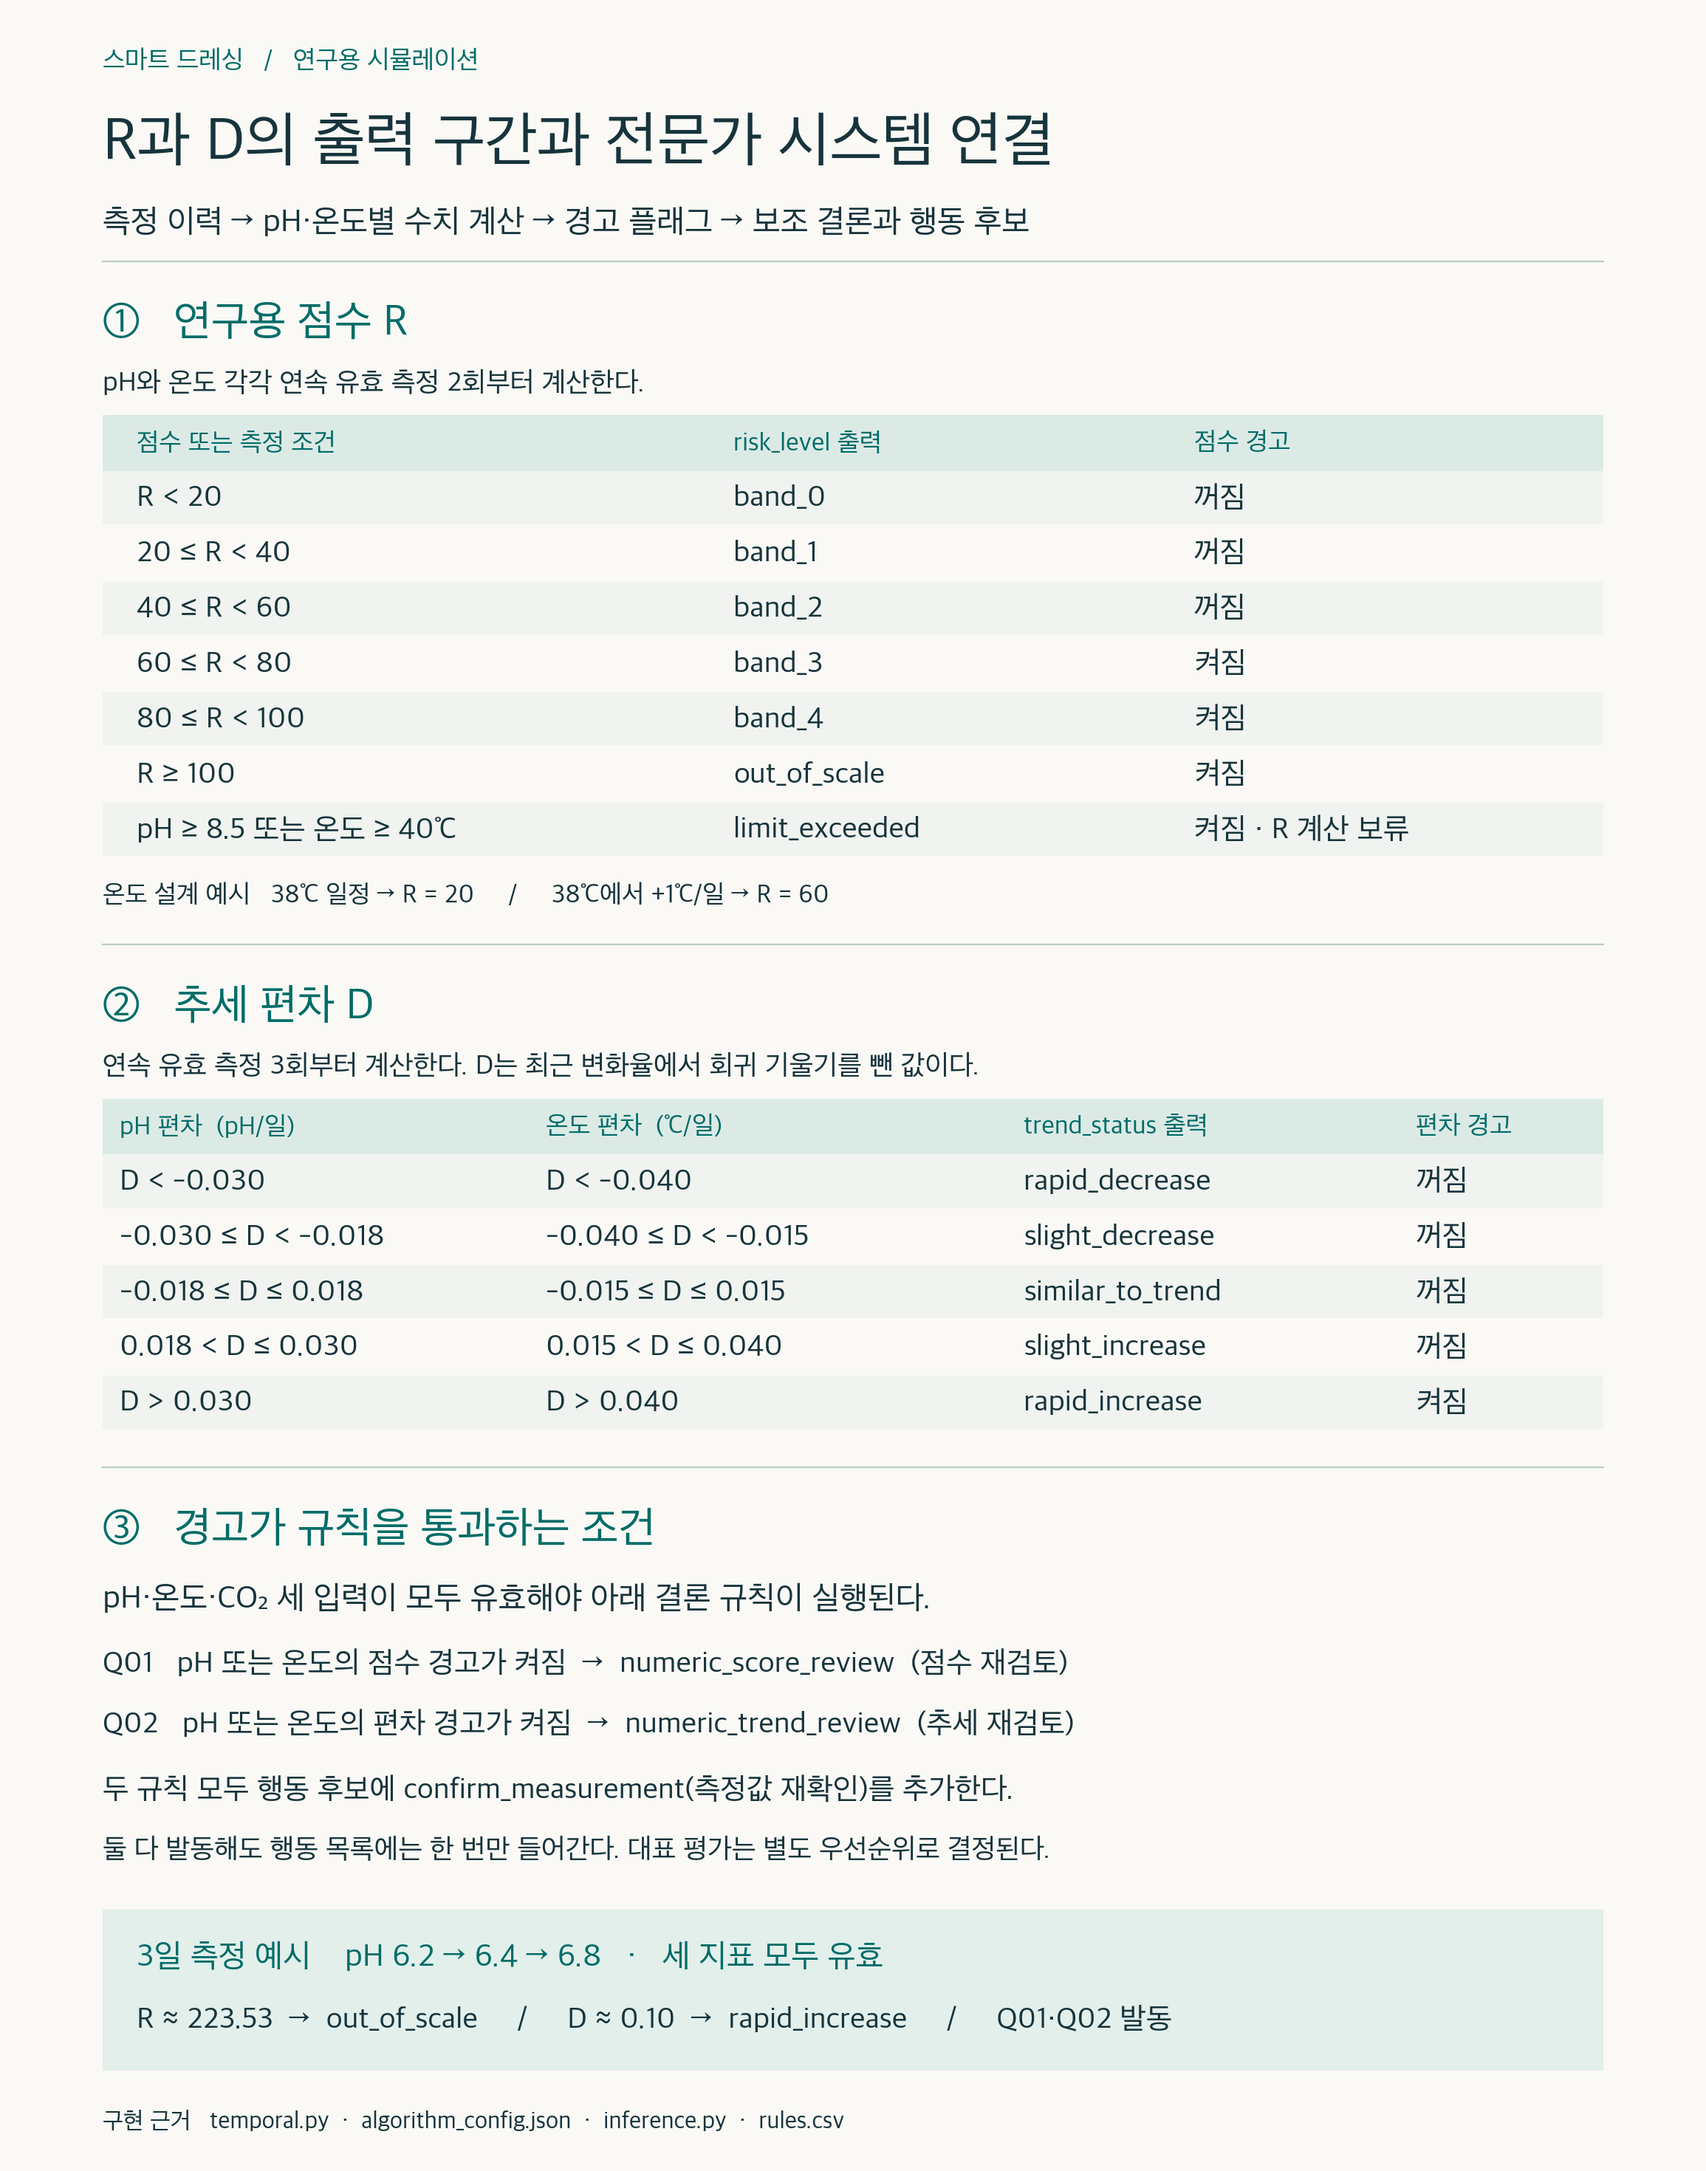
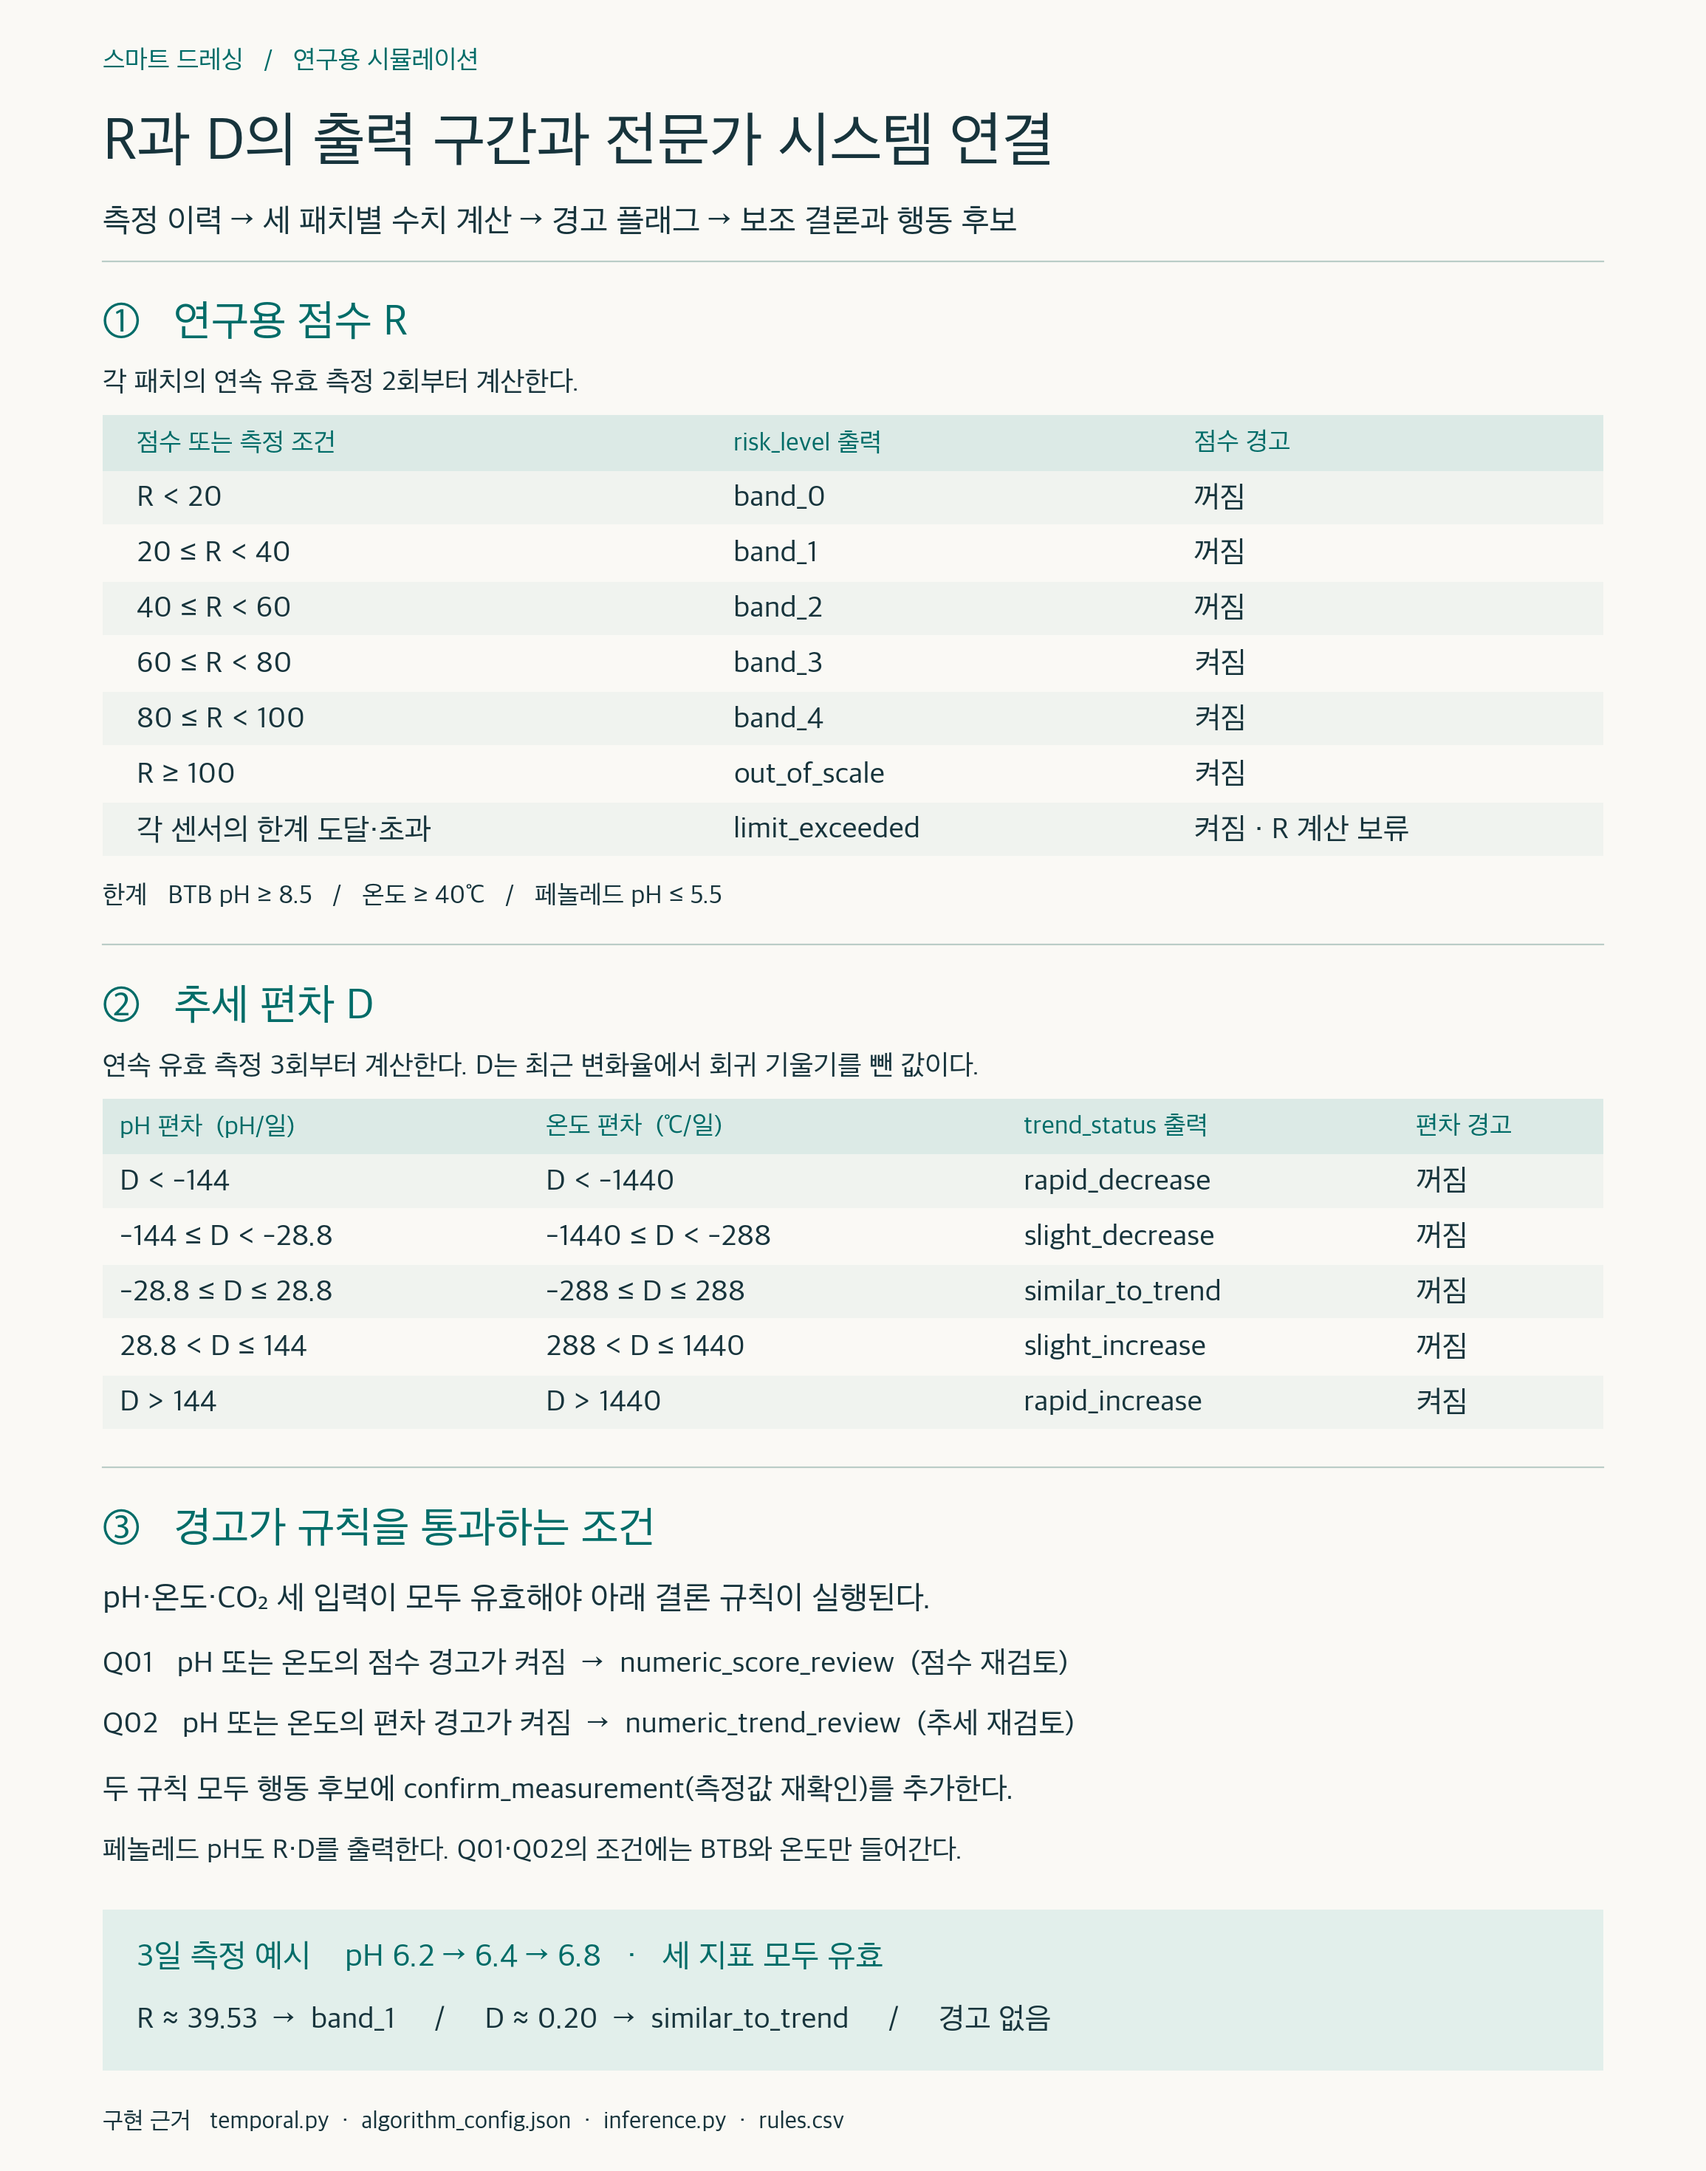
이제 진짜 마지막실험해보자

diff --git a/실험결과/시나리오_분석.md b/실험결과/시나리오_분석.md
@@ -1,41 +1,27 @@
-# 세 패치의 7일 시계열 실험
+# 시간 단위를 보정한 뒤 다시 실행한 5개 시나리오
 
-5개 사례의 BTB 패치 pH, 페놀레드 패치 pH(CO₂ 간접 지표), 온도패치(℃)를 각각 실제 temporal.py의 입력으로 실행했다. 동일한 7일 자료에서 1일까지만, 2일까지, …, 7일까지의 결과를 구해 미래 값이 앞선 날의 판단에 들어가지 않게 했다. 5사례 × 3패치 × 7시점 = 105개 조건이 모두 정상 종료했다.
+## 실험 방법
 
-## 측정값과 계산 방향
+제공된 7일치 입력을 사용해 각 날짜까지만 temporal.py의 수치 입력 모드에 전달했다. 5개 사례 × 3개 센서 × 7개 종료 시점으로 총 105회를 실행했다. 각 CLI 출력과 프로그램의 derive 결과를 비교하고, 입력 소수를 분수로 바꿔 별도로 구한 R 및 D와 대조했다. R은 2일차부터 90개, D는 3일차부터 75개가 계산됐다. 등급 경계의 반올림 오차도 수정해 정확히 20점인 5건이 모두 band_1로 분류됐다.
 
-s는 가장 최근 두 점의 변화율, b는 현재 점을 포함한 최근 최대 7점의 최소제곱 회귀 기울기다. 세 패치 모두 D=s−b이며 시간 단위는 일이다. 1일 차는 이력 부족, 2일 차는 R과 s만, 3~7일 차는 D까지 계산한다.
+## 7일차 결과
 
-| 패치 | 계산 가능 구간에서의 연구용 점수 R | D의 작은 경계 / 큰 경계 |
-|---|---|---|
-| BTB pH X | 40/(8.5−X)+500s | 0.018 / 0.030 pH/일 |
-| 페놀레드 pH C | 40/(C−5.5)−500s | 0.018 / 0.030 pH/일 |
-| 온도 T | 40/(40−T)+40s | 0.015 / 0.040 ℃/일 |
+각 칸은 R / D 순서다. D 단위는 pH/일 또는 ℃/일이다. CO₂ 열의 입력값은 페놀레드 패치의 pH다. 원래 시나리오 이름은 가상 상황의 이름이며 실제 감염 여부를 나타내지 않는다.
 
-**이번 실험에서 새로 둔 가정.** 페놀레드용 R 계수와 하한은 기존 자료에 없었다. 두 패치 모두 pH 척도를 사용하므로 비교용으로 BTB 식을 pH 7에 대해 대칭시켰다. 즉 BTB 식에 14−C를 넣은 결과와 같다. 이 선택으로 C가 낮아지거나 빠르게 내려가면 R이 커진다. 5.5는 수식의 계산 하한이며 감염 판정 기준이 아니다. 하한 이하에서는 R을 비워 두고 limit_exceeded로 표시한다. D는 원래 pH 축에서 계산하므로 음의 D는 최근 페놀레드 pH 기울기가 회귀 기울기보다 낮다는 뜻이다. 이 계수·경계는 실측으로 교정되지 않았다.
+| 사례 | BTB pH | 페놀레드 pH | 온도 | 관찰한 변화 |
+|---|---:|---:|---:|---|
+| 1. 지속 변화 | 92 / −0.05 | 92 / +0.05 | 32 / −0.05 | 두 pH가 서로 반대 방향으로 진행하며 각각의 한계에 접근해 두 R 모두 92에 도달했다. |
+| 2. 일부 지표 변화 | 34.67 / +0.05 | 20 / −0.10 | 48 / +0.55 | 온도는 끝에 하루 0.7℃ 올라 세 점수 중 가장 높았다. |
+| 3. 작은 변동 | 16 / −0.10 | 20 / −0.05 | 6 / 0 | 입력 범위가 좁아도 작은 등락이 변화율 항에 반영됐다. |
+| 4. 6일차 급변 | 62.67 / −1.05 | 62.67 / +1.05 | 15.05 / −0.95 | 6일차의 R은 각각 152, 152, 80이었다. 7일차에는 변화 방향이 반전돼 R이 낮아졌다. |
+| 5. 상승 후 복귀 | 4 / +0.05 | 4 / −0.05 | −2 / +0.05 | 온도의 마지막 변화율은 −0.3℃/일이다. 기본 항 10점에 변화율 항 −12점이 더해졌다. |
 
-## 7일 차 결과와 전환점
+## 단위와 판정의 해석
 
-각 칸은 R / D이다. 서로 다른 패치 점수를 더하거나 평균 내지 않았다.
+두 HTML 기본값은 현재점을 제외한 이전 최대 3점으로 회귀한다. D는 최근 변화율에서 이 회귀 기울기를 뺀 값이다. 같은 관측 시각을 분에서 일로 표시하면 D와 경계 모두 1,440배가 된다. BTB pH 경계는 0.02와 0.1에서 28.8과 144로, 온도 경계는 0.2와 1에서 288과 1,440으로 환산했다. 페놀레드의 자체 기준 자료가 없어 BTB와 같은 pH 경계를 가정했다.
 
-| 입력 시나리오 | BTB pH | 페놀레드 pH | 온도 |
-|---|---:|---:|---:|
-| 1 서서히 확실한 감염 | 230.00 / −0.0357 | 230.00 / +0.0321 | 32.00 / −0.0357 |
-| 2 서서히 애매한 감염 | 126.67 / +0.0357 | 66.00 / −0.1000 | 48.00 / +0.3929 |
-| 3 정상 | 16.00 / 0.0000 | 66.00 / −0.1071 | 6.00 / −0.0893 |
-| 4 정상 → 급격한 감염 | 16.67 / −0.4607 | 16.67 / +0.4607 | 15.05 / −0.4393 |
-| 5 정상 → 서서히 약한 감염 → 정상 | −134.00 / −0.2964 | −134.00 / +0.2929 | −2.00 / −0.3000 |
+HTML은 R 가중치를 제공하지 않는다. 이번 일 단위 연구 점수는 경고 방향으로 하루 0.5단위 변할 때 변화율 항이 한 등급 폭인 20점만큼 기여하도록 β=40을 사용했다. BTB와 온도는 상승, 페놀레드는 하락이 가점 방향이다. 기존 BTB·페놀레드의 β=500을 40으로 조정했고 온도는 기존 β=40을 유지했다. 이는 실험용 척도 선택이다. 동일한 R을 분당 기울기로 구현하면 β(분)=1,440×β(일)이다.
 
-1. **지속 변화.** 1행 마지막 날 BTB는 7.7→8.0, 페놀레드는 6.3→6.0으로 움직였다. 두 R이 같은 230인 것은 대칭 수식과 마지막 두 점이 대칭이기 때문이다. 독립적으로 같은 감염 확률을 관측했다는 의미는 없다.
-2. **서로 다른 변화.** 2행 온도는 마지막 날 37.3→38℃로 뛰어 D가 +0.3929였다. 같은 날 페놀레드 pH는 8.1→8.0으로 조금 내려가도 R이 66이었다.
-3. **작은 변동.** ‘정상’으로 설계한 3행도 마지막 날 페놀레드 pH가 0.1 내려가면서 R에 50점이 더해졌다. BTB도 5·6일 각각 65.38, 66.00이다. 현재 계수는 이런 작은 움직임에도 민감하다.
-4. **급변.** 4행 6일 차 BTB 6.2→8.0, 페놀레드 7.8→6.0, 온도 36.5→38℃에서 R은 각각 980, 980, 80이다. D는 각각 +1.4857, −1.4857, +1.1886이다. 7일에 변화 방향이 뒤집히자 여전히 5일과 다른 측정 수준에서도 세 R 모두 20 아래로 떨어졌다.
-5. **되돌아오는 변화.** 5행의 세 측정값은 마지막 날 첫날 값으로 돌아왔다. R은 현재값뿐 아니라 직전 변화율도 사용하므로 세 점수 모두 음수가 됐다. 음수는 수식 결과로 band_0에 들어간다.
+D가 계산된 75건 모두 similar_to_trend였다. 4번 6일차에는 BTB D=+1.7, 페놀레드 D=−1.7, 온도 D=+1.4로 세 지표의 급변이 원수치에 나타났다. 일 단위로 환산한 첫 경계는 각각 28.8과 288이므로 등급은 그대로였다. 같은 순간들의 시간 표기를 바꾸는 것과 측정 간격 자체를 하루로 늘리는 것은 다르다. 분 단위 실험의 경계를 보존하면 이 데이터에서는 일별 급변을 구분할 수 없다. 일별 경계를 정하려면 반복 측정 오차와 별도의 일별 변화 자료를 확보해 설정하고, 독립 사례로 재검증해야 한다.
 
-## 검증과 해석 범위
-
-105개 CLI 출력과 입력 이력을 받는 derive() 경로를 대조했다. 계산 가능한 R 90개와 D 75개는 십진 입력을 분수로 변환해 독립 계산한 값과 절대 오차 10⁻⁹ 이내에서 일치했다. R 등급과 D 상태도 정확한 분수 기준과 모두 일치했다. 직전 실험에서 확인된 D 경계의 실수 오차는 경계로부터 10⁻¹² 이내일 때 해당 경계로 분류하도록 수정했다. 원래 계산한 D 수치는 그대로 출력한다.
-
-사례 이름은 사용자가 설계한 변화 패턴이다. 감염 진단이나 임상적 정확성을 검증한 실험은 아니다. 점수는 특히 한계값 부근과 하루 변화량에 민감하다. 이번 범위는 세 패치의 temporal 계산이며 전문가 시스템의 Q01·Q02 적용 범위는 기존 BTB pH와 온도다.
-
-[일별 입력과 전체 계산표](일별_입력과_계산결과.md) · [105개 실행의 실제 입력 및 출력](temporal_CLI_원본출력.txt)
+[전체 입력과 일별 수치](일별_입력과_계산결과.md) · [CLI 입력 및 표준출력 105회](temporal_CLI_원본출력.txt)
